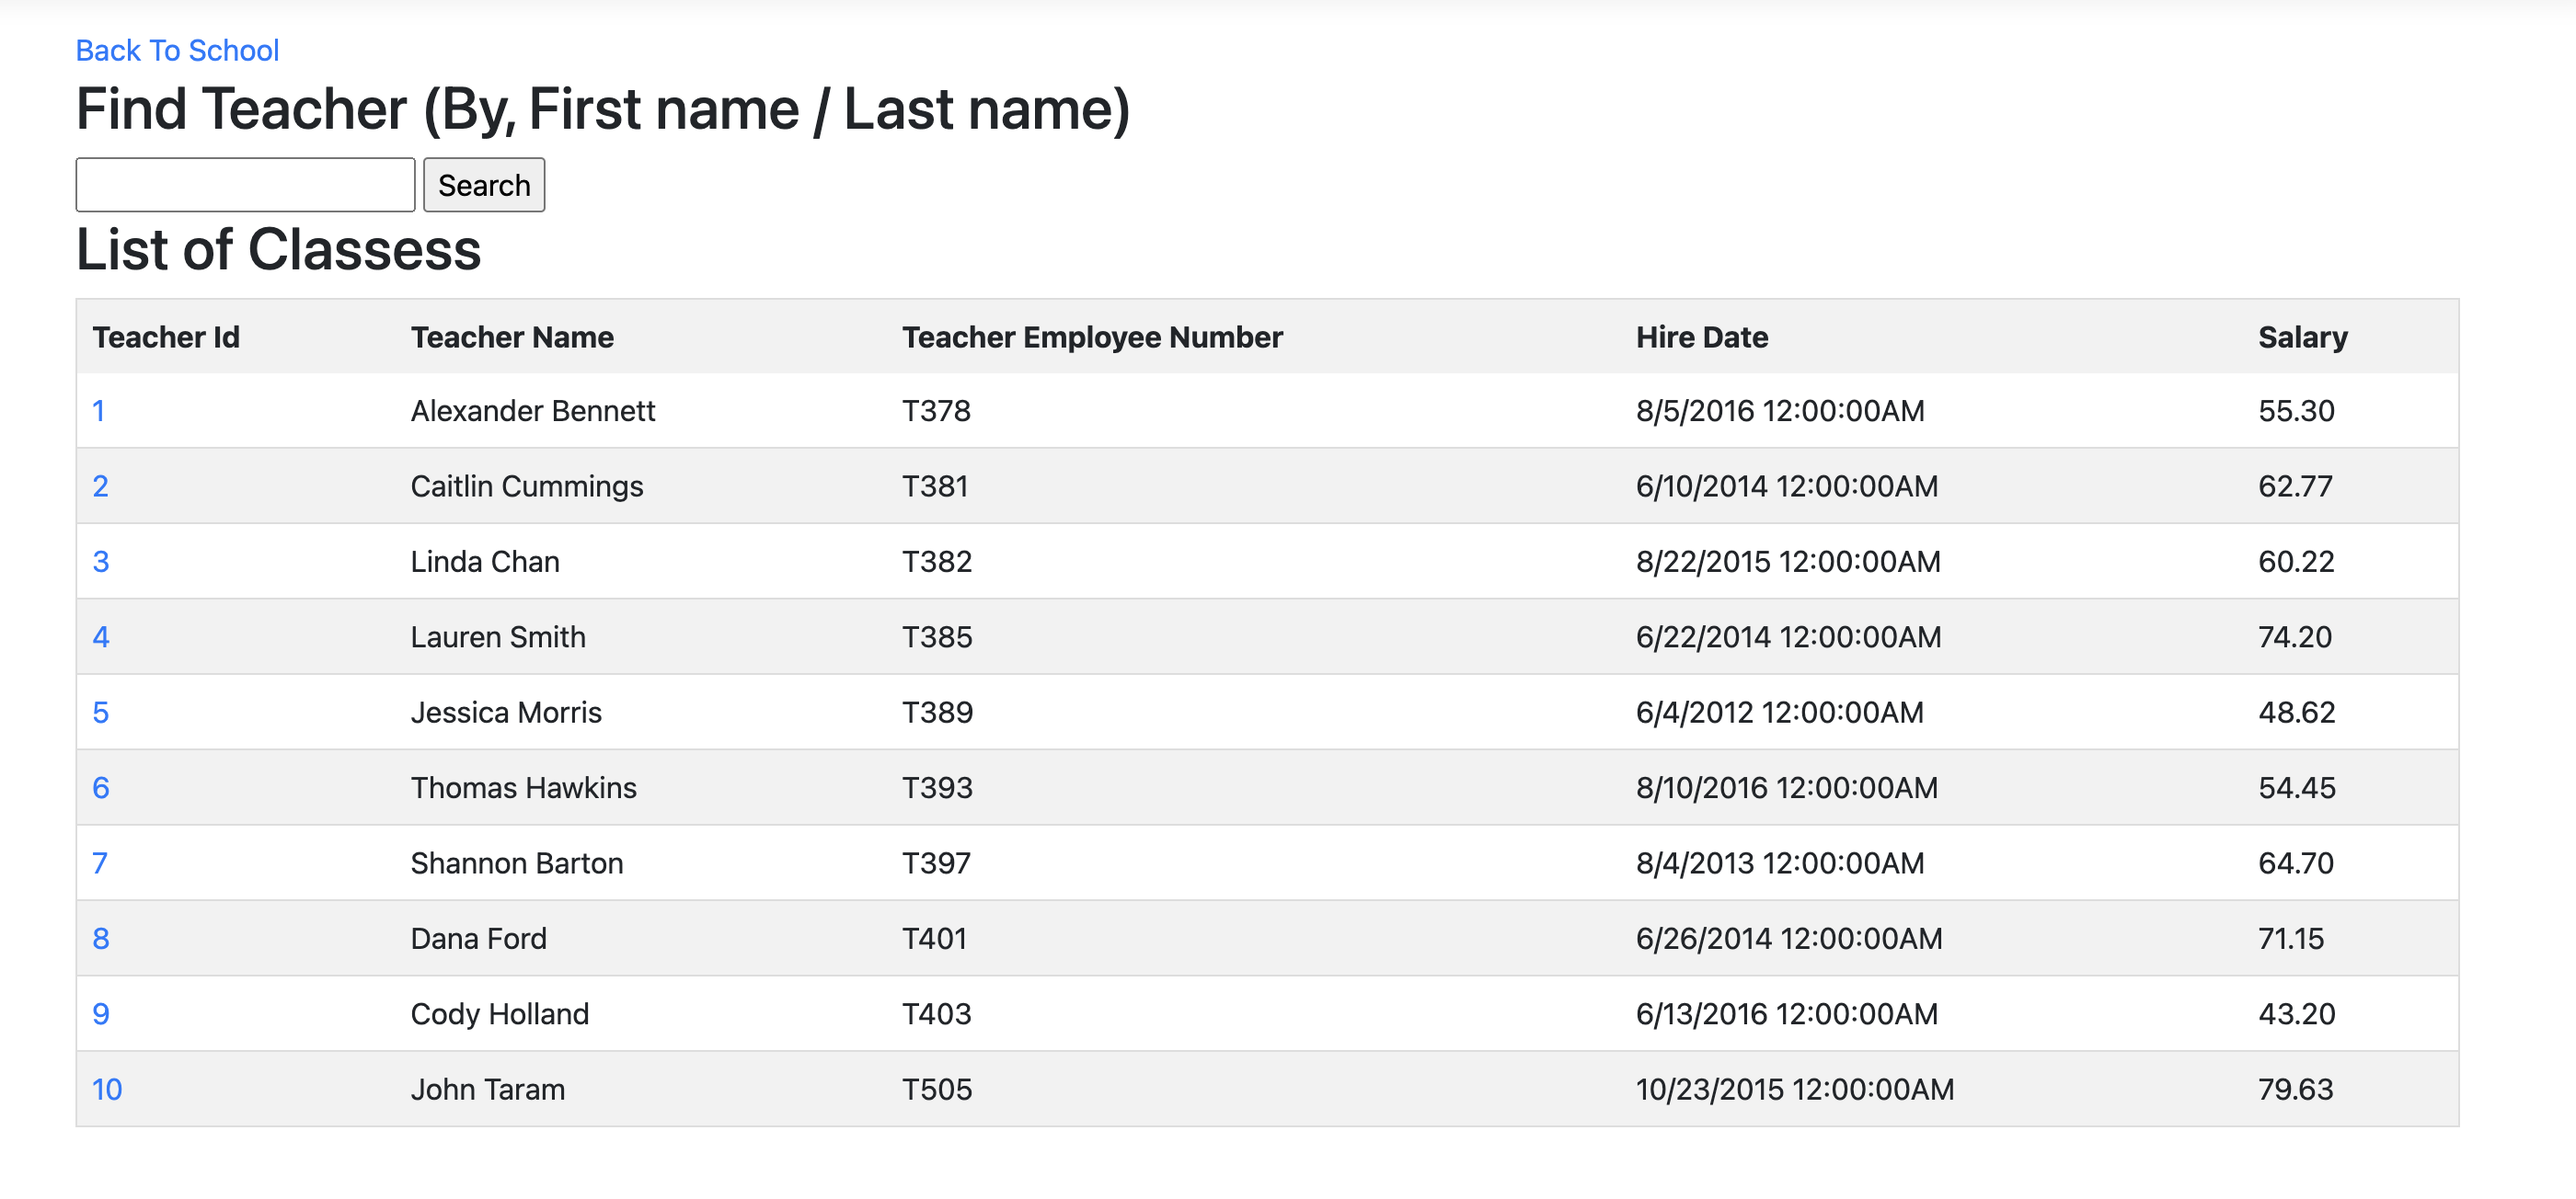
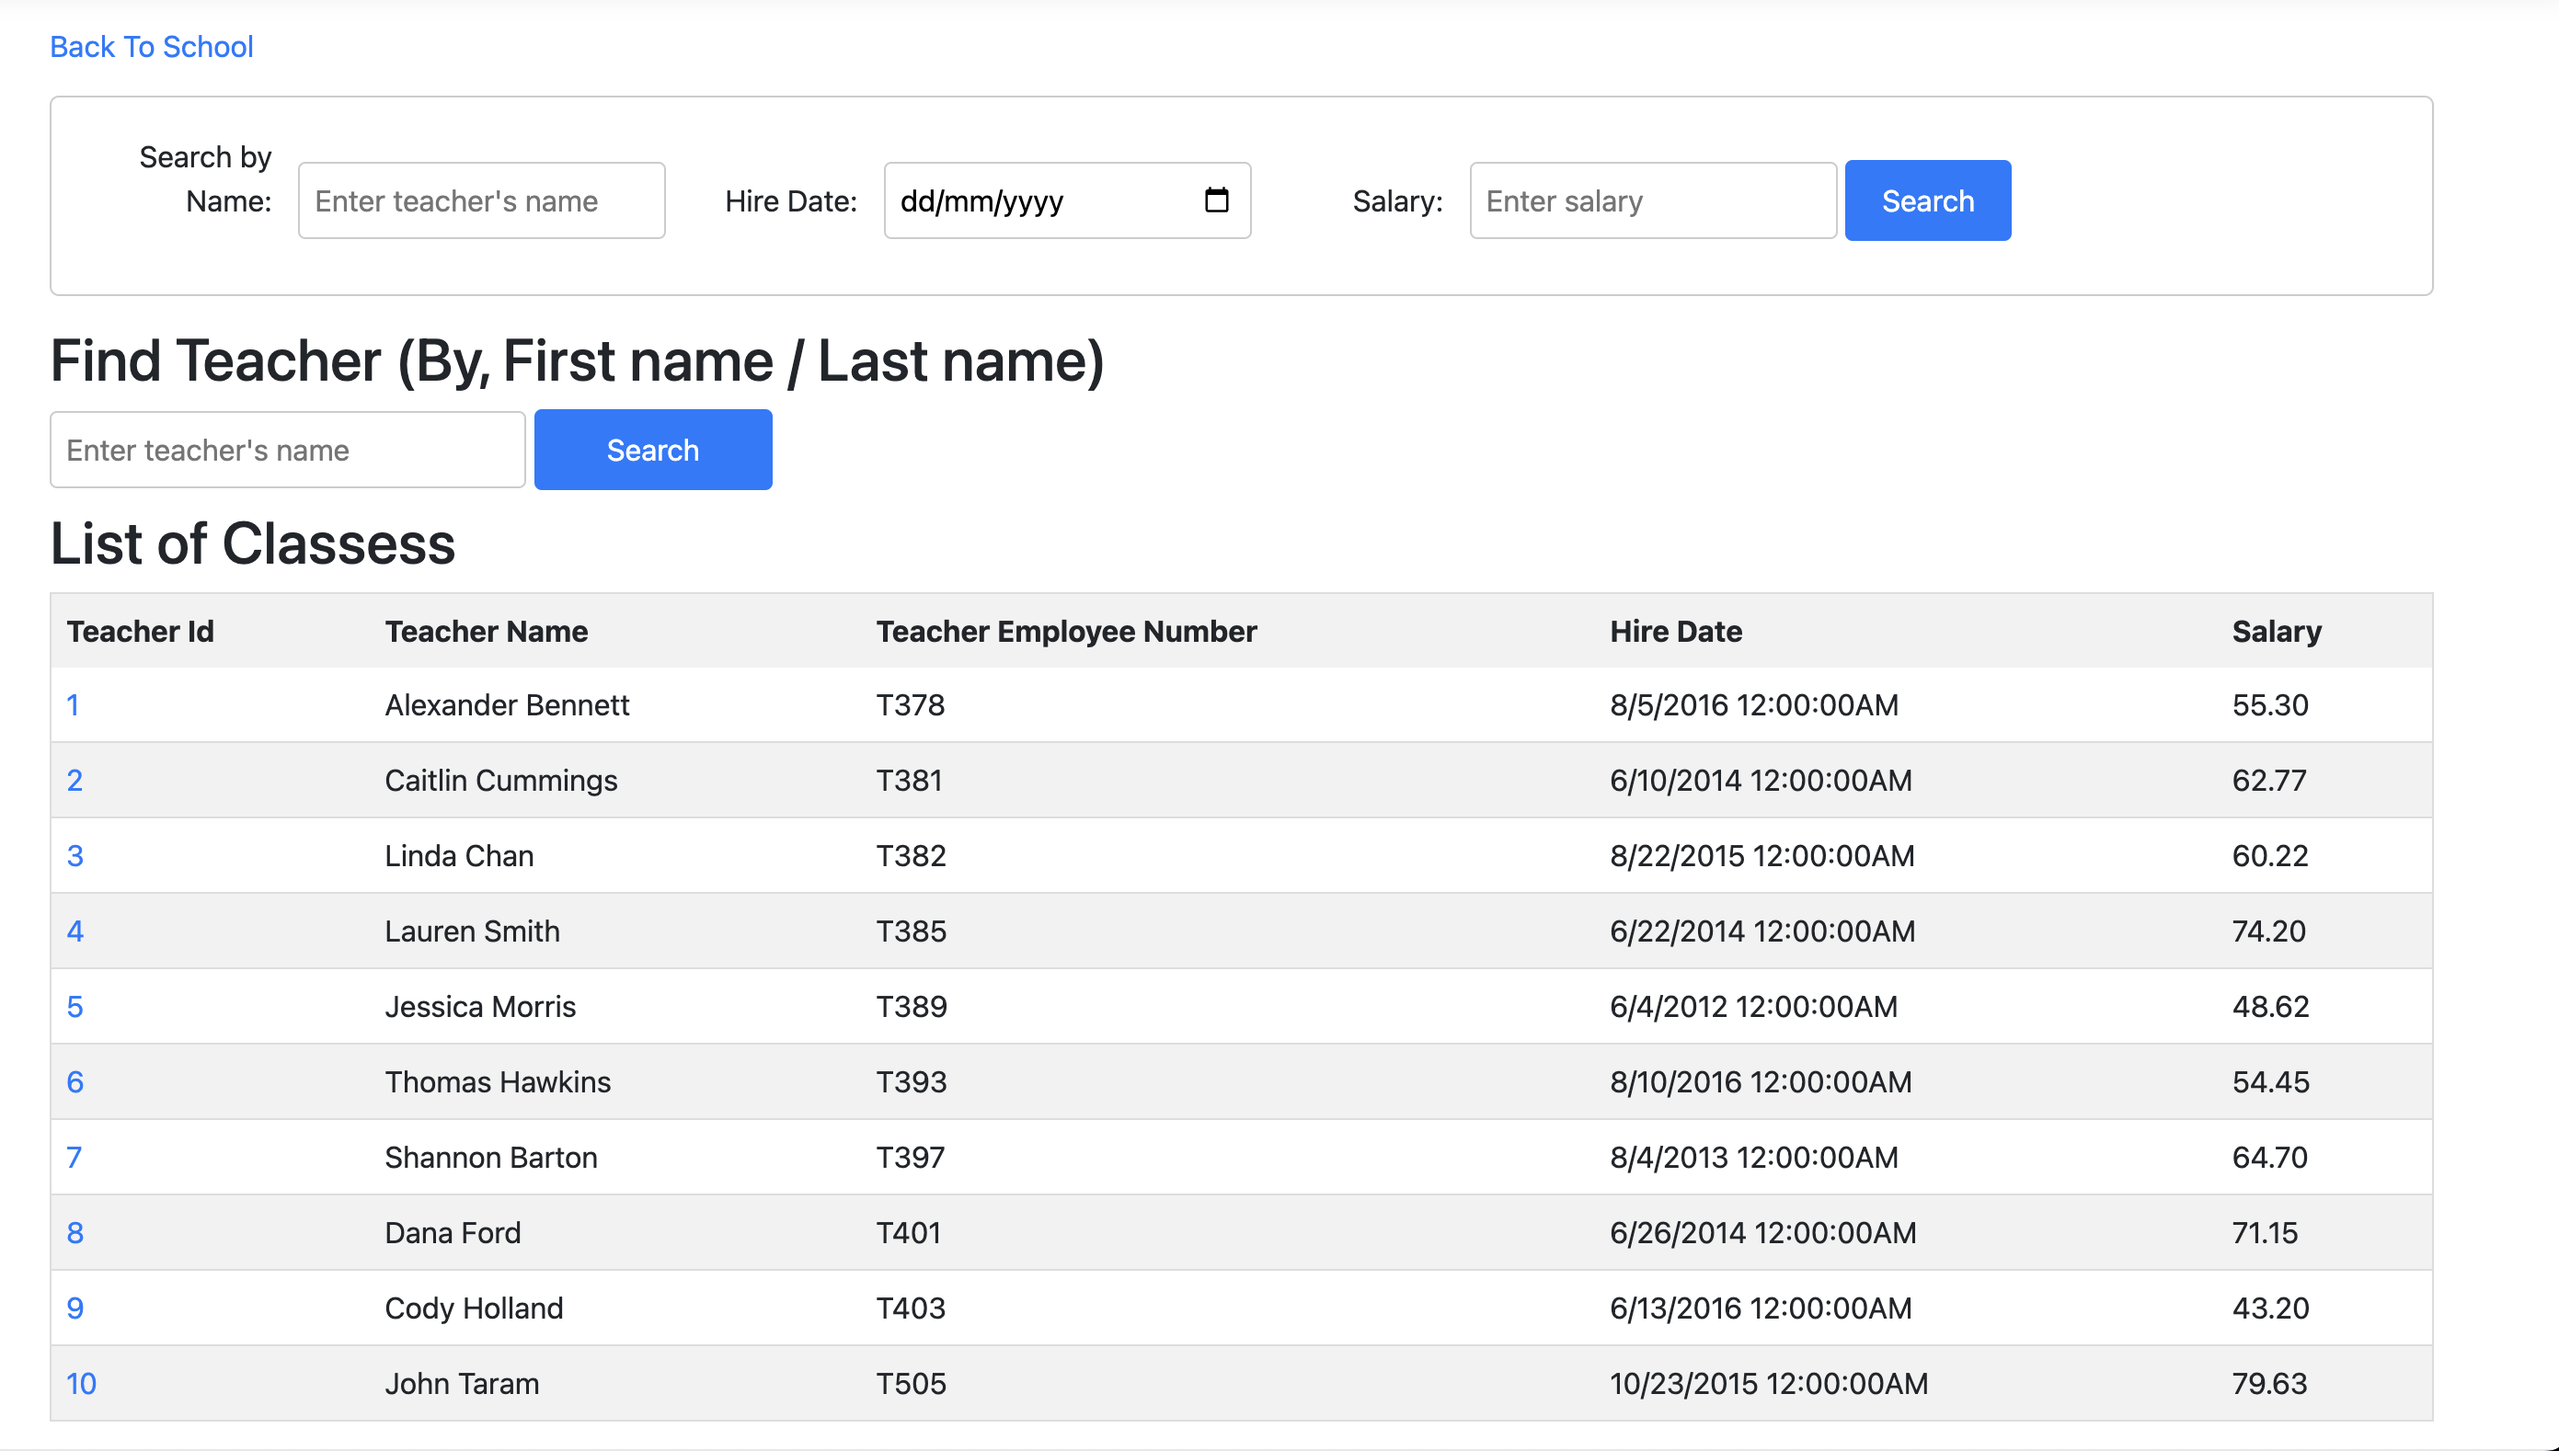
Add Form

diff --git a/Cumulative_Project/wwwroot/css/site.css b/Cumulative_Project/wwwroot/css/site.css
@@ -65,7 +65,69 @@ a {
     transition: color 0.3s ease; /* Smooth color transition */
 }
 
-    /* Hover effect for anchor tag */
-    a:hover {
-        color: #0056b3; /* Darker blue on hover */
-    }
+/* Hover effect for anchor tag */
+a:hover {
+    color: #0056b3; /* Darker blue on hover */
+}
+
+/* Form Container */
+#teacherSearchForm {
+    margin: 15px auto;
+    padding: 20px;
+    border: 1px solid #ccc;
+    border-radius: 5px;
+}
+
+/* Form Label */
+#teacherSearchForm label {
+    display: inline-block;
+    width: 100px; /* Adjust width as needed */
+    text-align: right;
+    margin-right: 10px;
+}
+
+/* Form Input */
+#teacherSearchForm input[type="text"],
+#teacherSearchForm input[type="date"],
+#teacherSearchForm input[type="number"] {
+    width: 200px; /* Adjust width as needed */
+    padding: 8px;
+    margin-bottom: 10px;
+    border: 1px solid #ccc;
+    border-radius: 4px;
+}
+
+#searchkey {
+    width: 20%; /* Subtract padding */
+    padding: 8px;
+    margin-bottom: 10px;
+    border: 1px solid #ccc;
+    border-radius: 4px;
+}
+
+#submitBtn {
+    width: 10%;
+    padding: 10px;
+    background-color: #007bff; /* Blue color */
+    color: #fff;
+    border: none;
+    border-radius: 4px;
+    cursor: pointer;
+    transition: background-color 0.3s ease;
+}
+
+/* Search Button */
+#teacherSearchForm button[type="submit"] {
+    padding: 10px 20px;
+    background-color: #007bff; /* Blue color */
+    color: #fff;
+    border: none;
+    border-radius: 4px;
+    cursor: pointer;
+    transition: background-color 0.3s ease;
+}
+
+/* Hover Effect for Search Button */
+#teacherSearchForm button[type="submit"]:hover {
+    background-color: #0056b3; /* Darker blue color on hover */
+}
